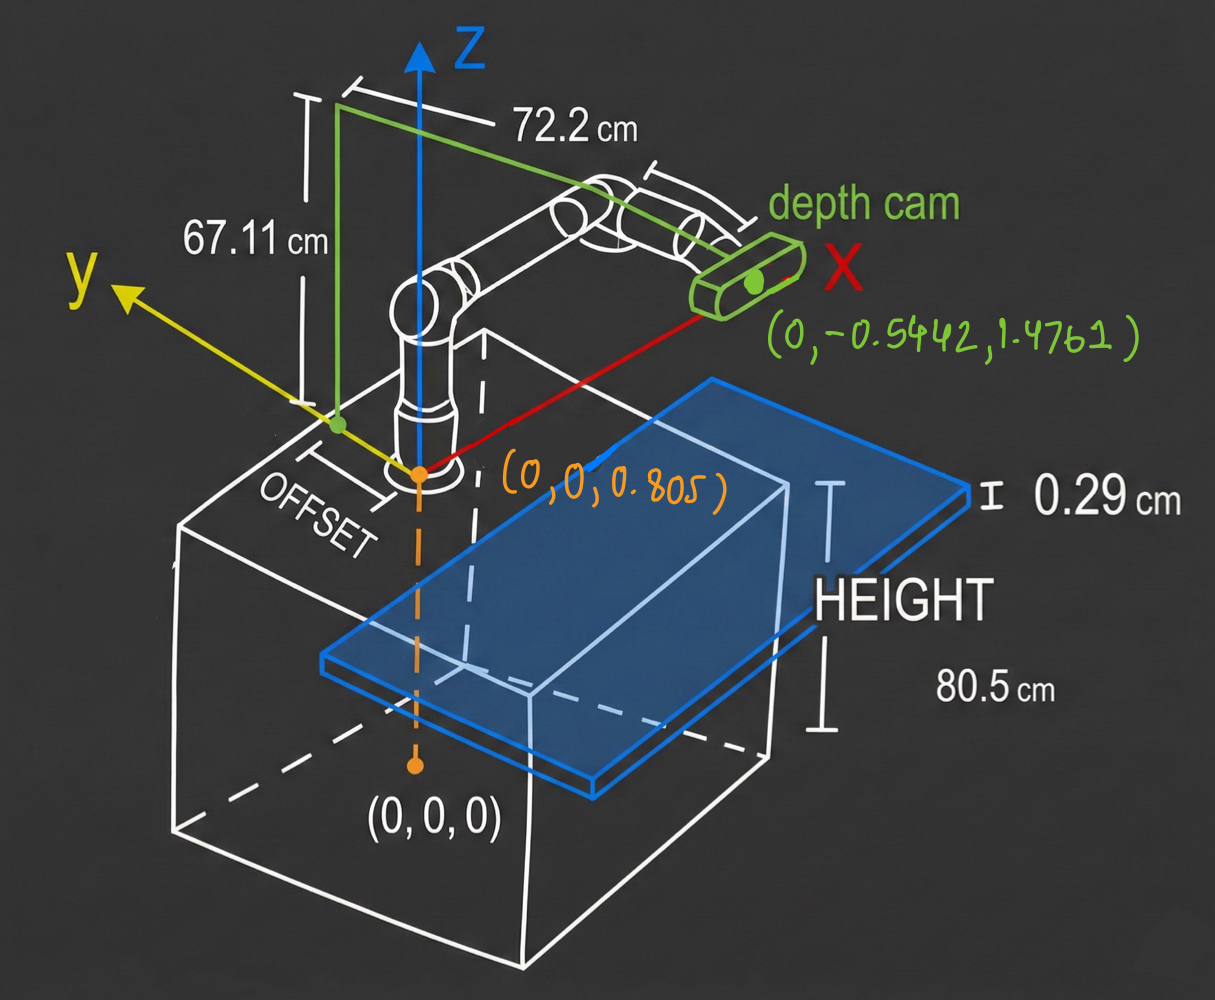
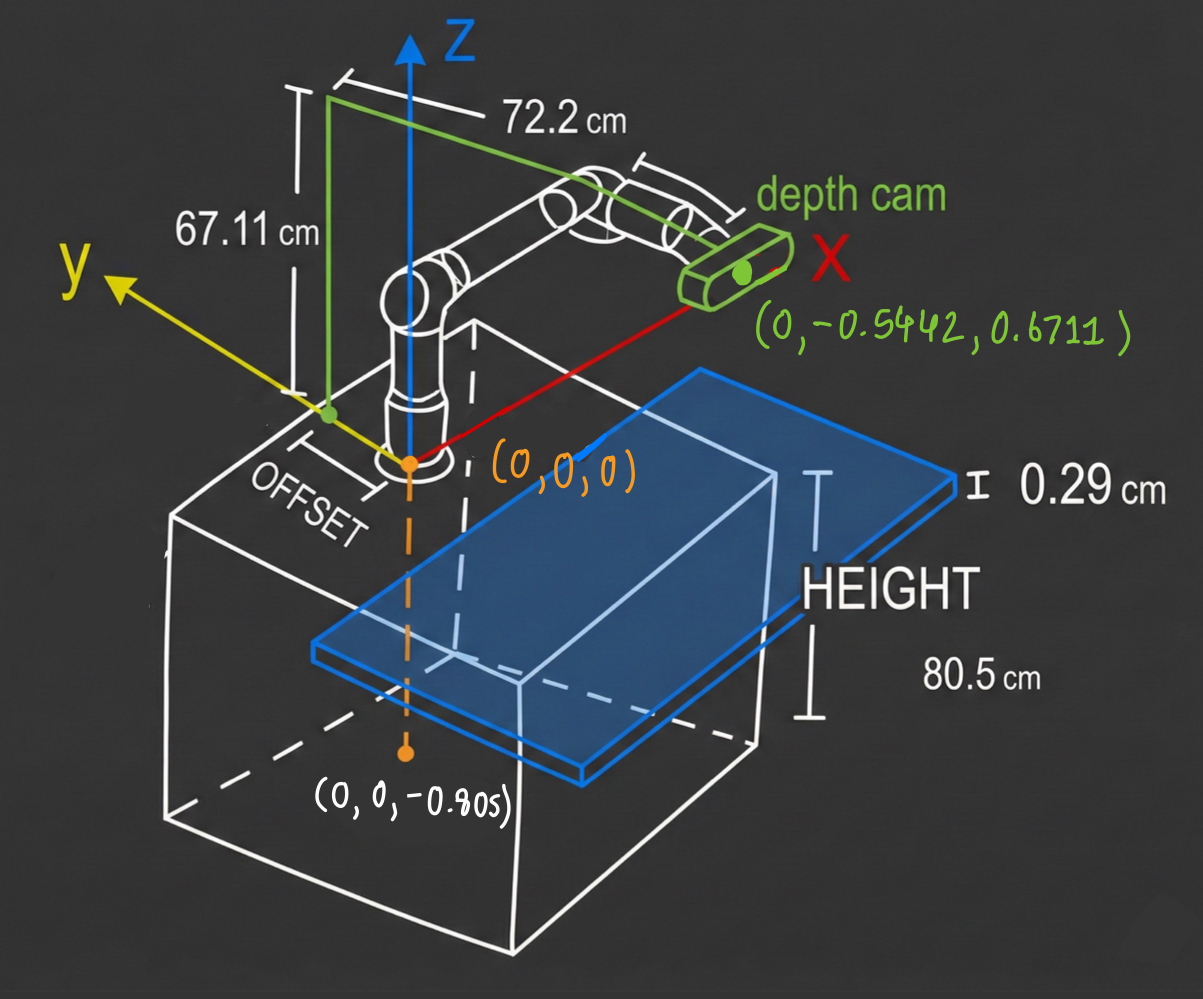
feat: update origin to be base of the UR Arm

diff --git a/setup.md b/setup.md
@@ -14,9 +14,9 @@ All coordinates are relative to the origin point defined below.
 
 | Component | Coordinates (x, y, z) | Description |
 |-----------|----------------------|-------------|
-| **Origin** | (0, 0, 0) | Spot on the floor directly under the center of the base of the UR Arm |
-| **UR Arm Base** | (0, 0, 0.805) | Center of the base of the UR Arm, measured at the height of the table |
-| **Depth Camera** | (0, -0.5442, 1.4761) | Position of the Intel Realsense D435i Depth Camera |
+| **Origin/UR ARM Base** | (0, 0, 0) | Center of the base of the UR Arm
+| **Ground Origin** | (0, 0, -0.805) | Position on the ground directly under the center of the base of the UR Arm, measured from the top surface of the table
+| **Depth Camera** | (0, -0.5442, 0.6711) | Position of the Intel Realsense D435i Depth Camera |
 
 ## Key Measurements
 
